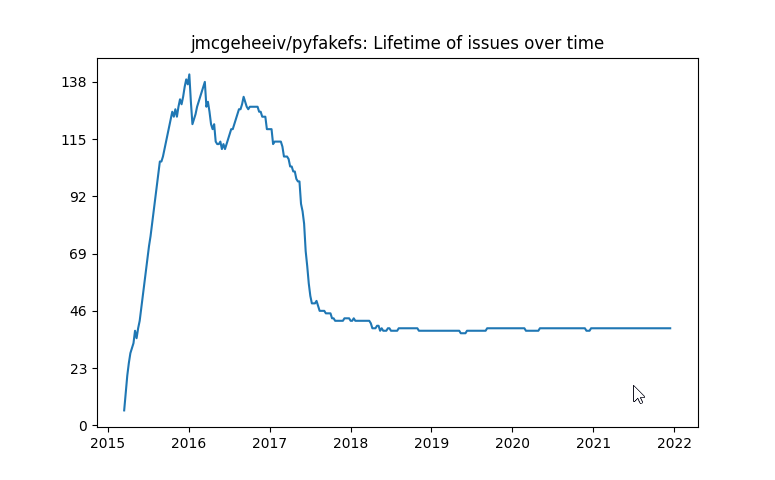
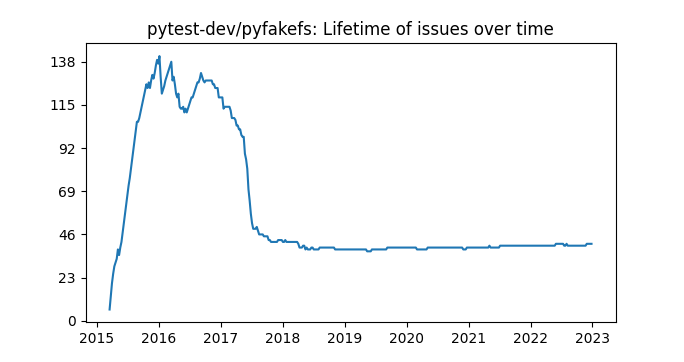
Add new feature to output dependents
- output dependent repos or packages
- allows to set a minimum number of stargazers
  to take into account
- fixed regression for issue/pr life due to
  reversed sort order of the issues

diff --git a/ghrepo_stats/show_gh_stats.py b/ghrepo_stats/show_gh_stats.py
@@ -221,7 +221,7 @@ class GitHubStats:
             return self.handle_output([], [], "")
 
         slots: List[dict] = []
-        start_time = issues[-1].opened
+        start_time = issues[0].opened
         now = datetime.utcnow()
         slot_time = start_time
         while slot_time < now:
@@ -229,7 +229,7 @@ class GitHubStats:
             slot_time = slot_time + timedelta(days=7)
 
         slot_len = len(slots)
-        for issue in reversed(issues):
+        for issue in issues:
             days_from_start = (issue.opened - start_time).days
             index = days_from_start // 7
             days = 7 - days_from_start % 7

diff --git a/README.md b/README.md
@@ -23,11 +23,20 @@ The following sub-commands are supported:
   (sampled once a week) 
 - pr-life: shows the average life time in days of issues over time 
   (sampled once a week) 
+- dependents: show which repositories and packages depend on your repository
+  as a list sorted by the number of stargazers
 
-_Caution:_
+Runtime
+-------
 Using sub-commands related to issues and PRs on repositories with many
-(open or close) issues  will take a lot of time due to API access
-limitations.  
+(open or close) issues may take a lot of time due to API access
+limitations the first time they are used on a given repository. 
+Each subsequent call shall be much faster, as the results are cached in the file system
+(as json files in the subdirectory `.ghrepo-stats` in the home directory of the current 
+user).
+Commands not related to issues/prs usually shall not take a long time, except for 
+dependents - these are currently not cached and take a sufficient time 
+(up to several minutes) if there are many of them (e.g. several thousands).
 
 Installation
 ------------
@@ -102,27 +111,19 @@ repositories first.
 No caching is done here (yet), so depending on the number of dependent repositories
 the call may take a long time.
 
-Caching
--------
-Some of the values retrieved from repositories are cached - specifically 
-issues, prs, issue-life, pr-life and stars. The caches are written as json files 
-into the directory `.ghrepo-stats` in the home directory of the current user.
-Especially for repositories with many issues this decreases the time needed to get 
-the data dramatically, if called a second time for the same repository.  
-
 Examples
 --------
 Get some measure of popularity change by showing the number of stargazers over
 time (note: stars that have been retracted are not counted):
-```
-$ show-ghstats stars "jmcgeheeiv/pyfakefs"
+```commandline
+$ show-ghstats stars "pytest-dev/pyfakefs"
 ```
 ![stars](https://github.com/mrbean-bremen/ghrepo-stats/raw/main/doc/images/stars.png)
 
 Check how issues are handled over time. There are two possibilities:
  - Show the number of open issues at any point in time:
-```
-$ show-ghstats issues "vvvv/svg"
+```commandline
+$ show-ghstats issues "svg-net/svg"
 ```
 ![issues](https://github.com/mrbean-bremen/ghrepo-stats/raw/main/doc/images/issues.png)
 
@@ -130,15 +131,29 @@ $ show-ghstats issues "vvvv/svg"
    increasing curve means ever more unresolved issues (also depends on the
    policies of the specific project - some projects leave issues open
    indefinitely, while others close outdated issues):
-```
-$ show-ghstats issue-life "jmcgeheeiv/pyfakefs"
+```commandline
+$ show-ghstats issue-life "pytest-dev/pyfakefs"
 ```
 ![issue-lifetime](https://github.com/mrbean-bremen/ghrepo-stats/raw/main/doc/images/issuelife.png)
 
 Get some measure of activity by checking how the code size changed over time 
 (measured in code additions/deletions):
-```
+```commandline
 $ show-ghstats codesize "pytest-dev/pytest"
 ```
 ![codesize](https://github.com/mrbean-bremen/ghrepo-stats/raw/main/doc/images/codesize.png)
 
+Check which well-known packages depend on your repository: 
+```commandline
+$ show-ghstats dependents pydicom/pydicom --packages --min-stars=1000
+```
+```
+fastai/fastai   23163
+activeloopai/deeplake   5120
+pypa/sampleproject      4500
+openvinotoolkit/openvino        3890
+Project-MONAI/MONAI     3675
+Project-MONAI/MONAI     3675
+microsoft/presidio      1906
+Image-Py/imagepy        1209
+```

diff --git a/CHANGES.md b/CHANGES.md
@@ -3,6 +3,10 @@
 ### New features
 * added output of dependent repositories and packages
 
+### Fixes
+* fixed a regression for showing issue life-times - the feature had been broken 
+  with the recent changes 
+
 ## [Version 0.4.0](https://pypi.org/project/ghrepo-stats/0.4.0/) (2022-12-26)
 
 ### Changes
